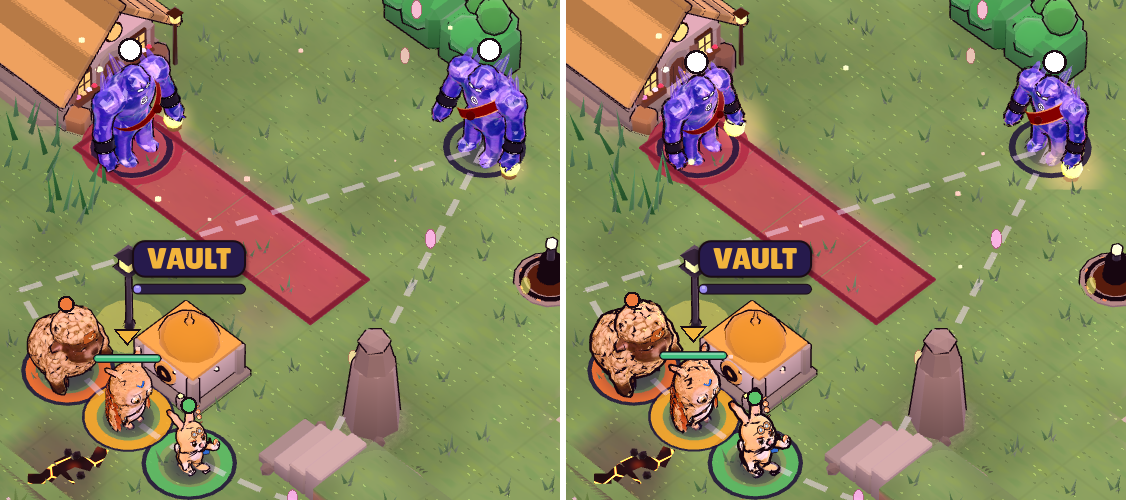
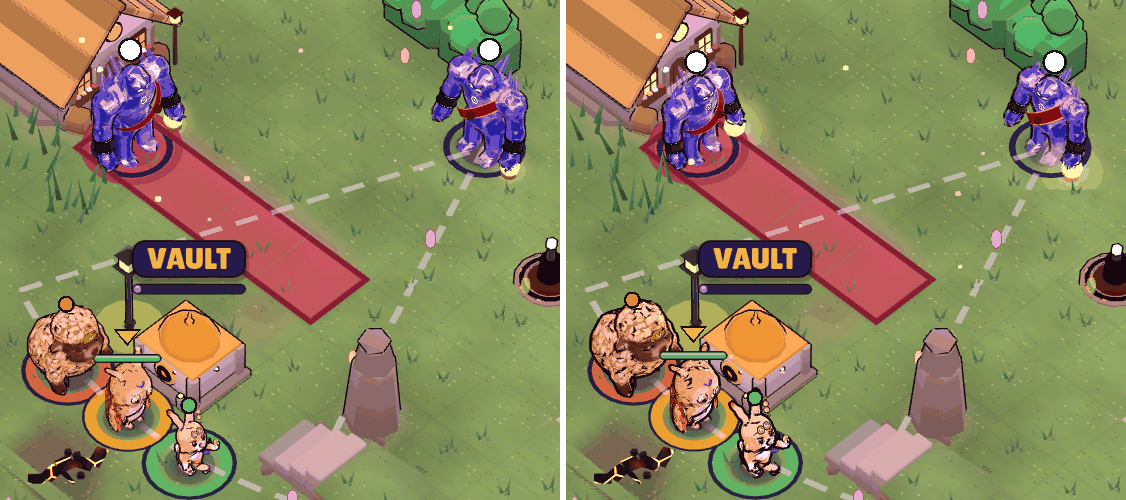
Forms change pattern, glow and one accessory in their note's colour: Hush soft violet edges and a moonlit rim, Spark ember flecks and crackling edges with a star, Echo rings and two trailing ghost outlines with a ring; a forms lineup shot and the track's notes
Claude-Session: https://claude.ai/code/session_014fBYdmu7RFs1tXHW8oT3Ue

diff --git a/docs/art/tracks/t1b-characters.md b/docs/art/tracks/t1b-characters.md
@@ -1,0 +1,62 @@
+# T1b Characters (second agent on the characters track)
+
+Takes over T1's work (`docs/art/tracks/t1-characters.md`): the export
+harness, `CreatureModel`, its material, forms and guard form.
+
+## Done
+
+- **Tree green.** The first full check run on this branch failed only because
+  the machine lacked the `wasm32-unknown-unknown` Rust target and `gdlint`;
+  with both installed the run passed every stage through the client's tests
+  (322 of 322) on the readability commit.
+- **Readability at the heist's size.** The creature shaders work out how many
+  pixels a metre covers on screen (from the projection and depth, so it holds
+  for the heist's 22° perspective and the orthographic views). Under 240 px a
+  metre the ink outline thickens (up to 1.7×), the rim strengthens (up to
+  1.8×) and wraps further round, and the shade opens a little. Guards take a
+  red rim (`CreatureModel.GUARD_RIM`), a wider sash and a larger lantern with
+  a brighter halo. `CreatureModel.readable_scale()` draws the ruleborn band
+  0.5–1.4 m as 0.95–1.4 m, so small kinds grow most, the Golem and Mossbear
+  barely, and the order of heights holds. Hook outside the track: one line in
+  `client/world/world_view.gd` (T5's) uses `readable_scale()` when the model
+  has it. Still: `docs/art/shots/t1b/heist_readability_before_after.png`.
+- **Forms (§21.6: pattern, glow and one accessory in the note's colour;
+  11.10's looks).** Each form now hangs its note's symbol (8.1) over the head:
+  - Hush: midnight paint with star freckles, as before, plus soft violet ink
+    (finer) and a broad moonlit rim all round instead of the hard side rim
+    ("soft, silent edges"); a crescent charm.
+  - Spark: lit from within, as before, plus ember flecks that flare and fade
+    in the paint and arcs that crawl along the silhouette ("crackling tips and
+    ember flecks"); embers rising; a rounded five-point star charm.
+  - Echo: rings that run up the body in Echo cyan; two faint ghost outlines
+    (cyan, bright only at the silhouette) that stand where the body was 0.3 s
+    and 0.6 s ago on the same clip delayed, a little behind and aside when
+    still; a ring charm. The first ghost is still the child named `echo`.
+  Still: `docs/art/shots/t1b/forms_ruleborn.png` (rows: base, Hush, Spark,
+  Echo, guard; Featherkin, Rambler, Hourkeeper, Emberling, Mossbear, Lantern
+  Wisp), from the new shot `client/tests/shots/creature_forms.gd`.
+
+## Stopped here
+
+The owner asked every agent to stop at 19:19 UTC.
+
+- **Not checked:** the forms commit was not run through `tools/check_all.sh`
+  (it takes about 25 minutes); gdlint passes on every changed script, and the
+  forms shot renders without shader errors. The last full run (client tests
+  322 of 322) was on the readability commit before it.
+- **Still worse than the design:** the hero renders' softness (sheen, image
+  light, ACES); the Glass Golem reads deeper violet than its lilac portrait;
+  the guard's sash still hides under big arms (Golem) at 40 px; forms are
+  shader and gear work, not a per-kind pattern for each of the 54; the black
+  squint render does not blacken the gear (charms still glow).
+- **Install size (not started).** Measured: the imported scenes are 9.4 MB
+  and the textures 11 MB for the 43 kinds; a .glb's binary is mostly mesh
+  (tangents are float VEC4), and about half its 551 animation channels (276
+  on Featherkin) are static. Next: in each `.glb.import` turn off
+  `meshes/create_shadow_meshes` (characters cast no shadow) and measure
+  `meshes/generate_lods`; enable per-animation compression; collapse static
+  channels to one key (dropping those equal to the rest pose) in
+  `tools/art/export.mjs`'s `slim`; try Basis Universal for the paint atlas;
+  record per-kind triangles and sizes here.
+- **Next step:** run `bash tools/check_all.sh` on this head, then the install
+  size work above.
